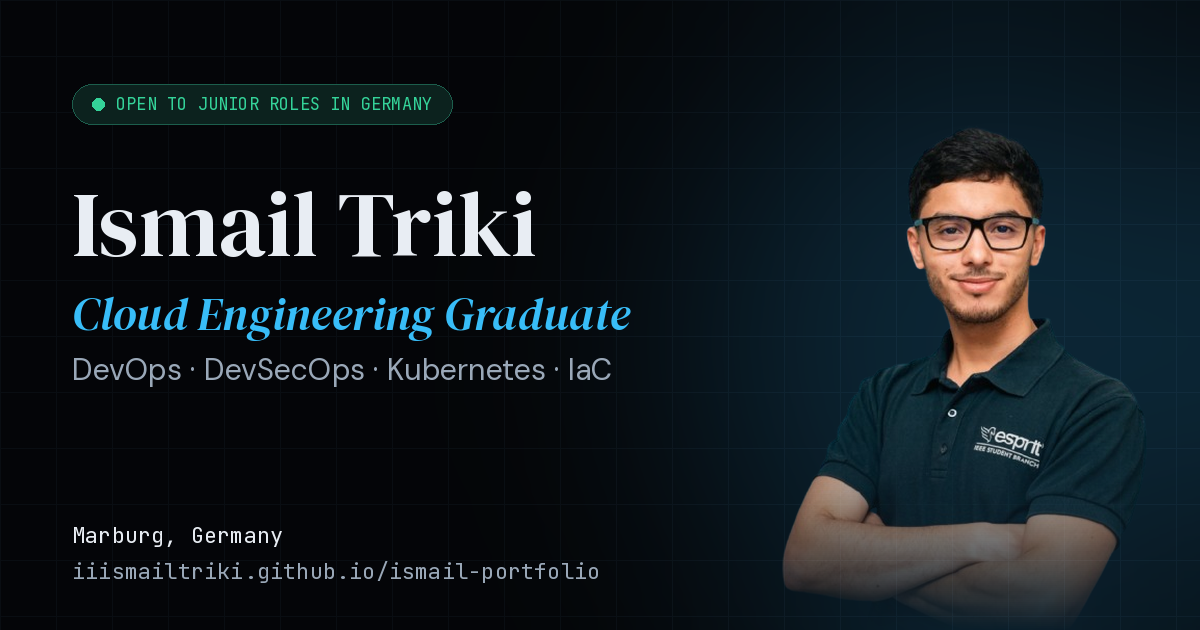
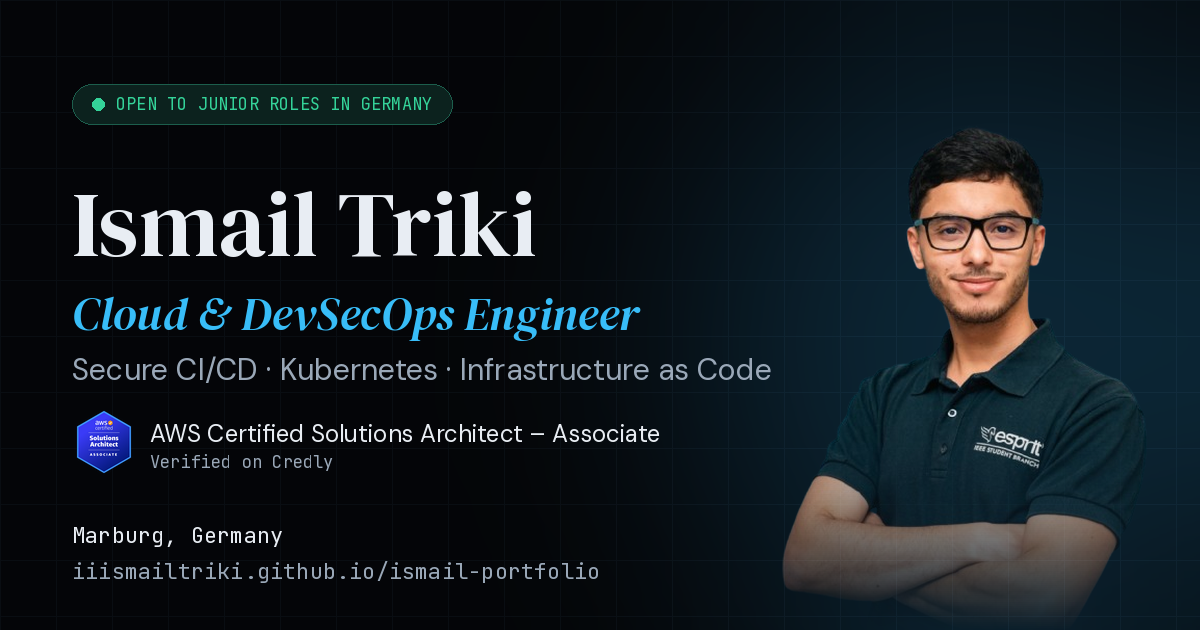
feat(certs): add AWS Certified Solutions Architect – Associate
- Official badge image from Credly's Open Badges API (issuer: AWS Training
  and Certification); links to the public Credly page for verification.
  No issue date, expiry or credential ID shown.
- Certifications now come from src/data/certifications.ts (SAA first),
  shared by the certifications section, hero and JSON-LD.
- JSON-LD hasCredential entries carry the Credly URL and issuer; page title,
  meta description and the social preview image mention the SAA.

Changed region(s): [[0.0617, 0.4524, 0.6475, 0.6032], [0.0617, 0.6333, 0.4317, 0.754], [0.4625, 0.6635, 0.555, 0.7238]]

diff --git a/src/data/certifications.ts b/src/data/certifications.ts
@@ -1,0 +1,45 @@
+import type { ImageMetadata } from 'astro';
+import saaBadge from '../assets/certifications/aws-solutions-architect-associate.png';
+import ccpBadge from '../assets/certifications/aws-cloud-practitioner.png';
+import nutanixBadge from '../assets/certifications/nutanix-ncp-mci6.png';
+
+// Single source for credentials (hero, certifications section, JSON-LD).
+// Names match the Credly badges exactly. Issue/expiry dates and credential IDs are
+// intentionally omitted — the Credly page is the verifiable record.
+export interface Certification {
+  name: string;
+  short: string;
+  issuer: string;
+  href: string;
+  image: ImageMetadata;
+  level: 'Associate' | 'Foundational' | 'Professional';
+}
+
+export const certifications: Certification[] = [
+  {
+    name: 'AWS Certified Solutions Architect – Associate',
+    short: 'AWS Solutions Architect – Associate',
+    issuer: 'Amazon Web Services',
+    href: 'https://www.credly.com/badges/fef01525-791c-400e-b3c5-98ea212d54d1/public_url',
+    image: saaBadge,
+    level: 'Associate',
+  },
+  {
+    name: 'AWS Certified Cloud Practitioner',
+    short: 'AWS Cloud Practitioner',
+    issuer: 'Amazon Web Services',
+    href: 'https://www.credly.com/badges/58168a8e-4f53-4ed0-a898-b92fbb761c50/linked_in?t=t4qoma',
+    image: ccpBadge,
+    level: 'Foundational',
+  },
+  {
+    name: 'Nutanix Certified Professional — Multicloud Infrastructure 6',
+    short: 'Nutanix NCP-MCI 6',
+    issuer: 'Nutanix',
+    href: 'https://www.credly.com/badges/efe60dc4-cab6-4cdc-a6d7-b256674a40b7/linked_in?t=t3x6lz',
+    image: nutanixBadge,
+    level: 'Professional',
+  },
+];
+
+export const [primaryCertification] = certifications;

diff --git a/scripts/make-og-image.py b/scripts/make-og-image.py
@@ -37,8 +37,12 @@ d.rounded_rectangle([72, 84, 452, 124], radius=20, outline=(28, 94, 76), fill=(1
 d.ellipse([92, 98, 104, 110], fill=GREEN)
 d.text((116, 92), 'OPEN TO JUNIOR ROLES IN GERMANY', font=ImageFont.truetype(MONO, 17), fill=GREEN)
 d.text((72, 160), 'Ismail Triki', font=serif, fill=TEXT)
-d.text((72, 282), 'Cloud Engineering Graduate', font=serif_i, fill=CYAN)
-d.text((72, 350), 'DevOps · DevSecOps · Kubernetes · IaC', font=sans, fill=MUTED)
+d.text((72, 282), 'Cloud & DevSecOps Engineer', font=serif_i, fill=CYAN)
+d.text((72, 350), 'Secure CI/CD · Kubernetes · Infrastructure as Code', font=sans, fill=MUTED)
+badge = Image.open('src/assets/certifications/aws-solutions-architect-associate.png').convert('RGBA').resize((64, 64), Image.LANCZOS)
+img.paste(badge, (72, 410), badge)
+d.text((150, 418), 'AWS Certified Solutions Architect – Associate', font=ImageFont.truetype(SANS, 24), fill=TEXT)
+d.text((150, 450), 'Verified on Credly', font=ImageFont.truetype(MONO, 17), fill=MUTED)
 d.text((72, 520), 'Marburg, Germany', font=mono, fill=TEXT)
 d.text((72, 556), 'iiismailtriki.github.io/ismail-portfolio', font=mono, fill=MUTED)
 
